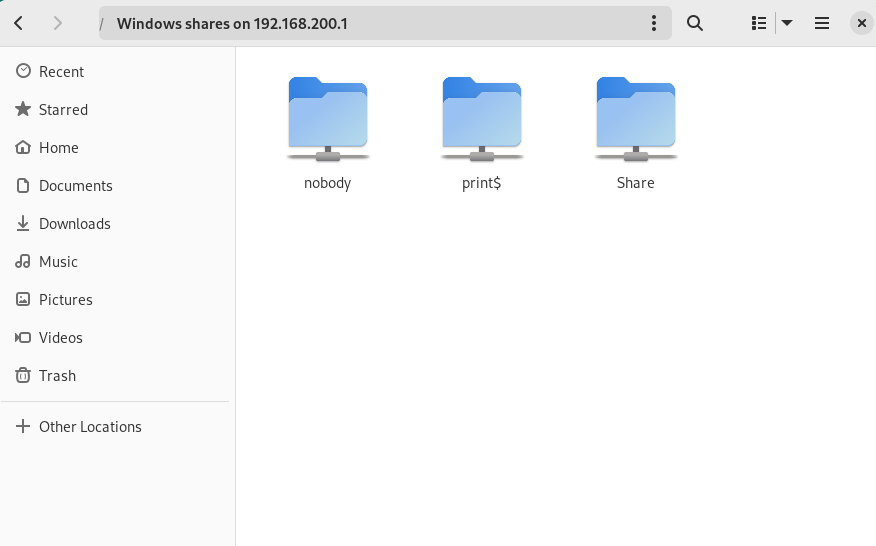
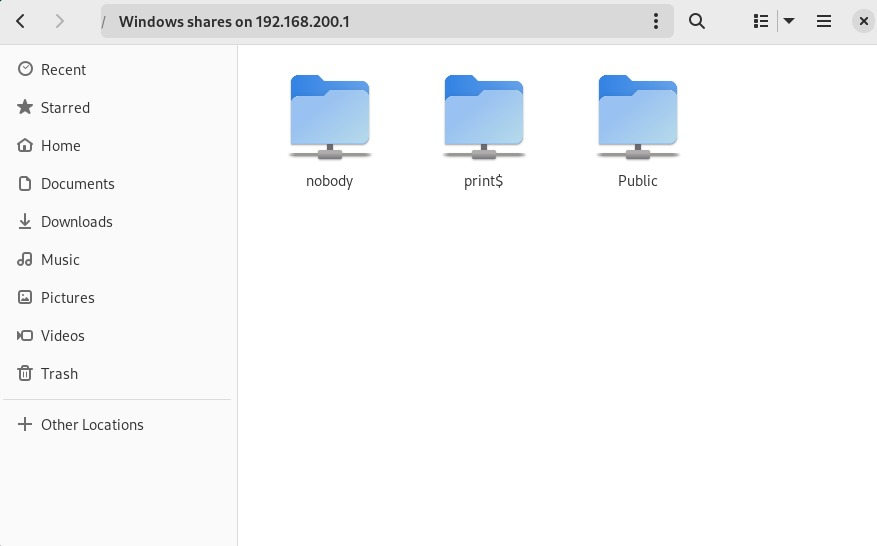
laporan selesai

diff --git a/Week-6/README.md b/Week-6/README.md
@@ -12,38 +12,189 @@
 <h3 style="text-align: center;line-height: 1.5">Politeknik Elektronika Negeri Surabaya<br>Departemen Teknik Informatika Dan Komputer<br>Program Studi D3 Teknik Informatika<br>2025/2026</h3>
   <hr>
 </div>
-<br>
+
+-----
+
+#### Daftar Isi
+1. [Konfigurasi Virtual Machine No-GUI (VM 1)](#konfigurasi-virtual-machine-no-gui-vm-1)
+2. [Konfigurasi NTP Client](#konfigurasi-ntp-client)
+3. [Konfigurasi Samba](#konfigurasi-samba) 
+4. [Konfigurasi Bind9 (DNS)](#konfigurasi-bind9-dns)
+5. [Konfigurasi Virtual Machine GUI (VM 2)](#konfigurasi-virtual-machine-gui-vm-2)
+
+Praktikum ini menggunakan dua VM Debian, satu tanpa GUI (VM1) dan satu dengan GUI (VM2). Tujuannya adalah menghubungkan kedua VM. VM1 memakai bridge network, sedangkan VM2 memakai internal network dan dikonfigurasi dengan Samba. 
+
+### Konfigurasi Virtual Machine No-GUI (VM 1)
+
+Mengatur Network pada debidora-nogui (VM 1), Ubah adapter 1 menjadi bridged network dan adapter 2 menjadi internal network. Tekan OK untuk menyimpan perubahan.
 
 <img src="images/1.png">
 <img src="images/2.png">
-<img src="images/3.png">
-<img src="images/4.png">
-<img src="images/5.png">
-<img src="images/6.png">
-<img src="images/7.png">
-<img src="images/8.png">
+
+1. Jalankan perintah ip a di VM untuk melihat alamat IP, lalu catat IP dari interface enp0s3. 
+
+    <img src="images/3.png">
+
+2. Setelah itu, buka terminal atau Command Prompt di Windows host, lalu gunakan perintah ssh student@[alamat-IP-enp0s3]. Masuk seperti biasa (seperti saat login di VM) untuk mengakses VM tanpa GUI langsung dari terminal Windows.
+
+    <img src="images/4.png">
+
+3. Setelah itu, lakukan pengaturan jaringan dan periksa isinya dengan menjalankan perintah nano -l -w /etc/network/interfaces untuk melihat konfigurasi yang ada.
+
+    <img src="images/5.png">
+
+    Terlihat bahwa terdapat dua interface jaringan yang dikonfigurasi: enp0s3 yang disetel menggunakan DHCP (otomatis mendapat IP), dan enp0s8 yang dikonfigurasi secara statis dengan alamat IP 192.168.200.1, subnet mask 255.255.255.0, dan DNS 1.1.1.1. Konfigurasi ini memungkinkan sistem untuk menggunakan dua koneksi jaringan sekaligus, masing-masing dengan pengaturan berbeda.
+
+4. Agar sistem bisa berfungsi sebagai router atau gateway, fitur IP forwarding perlu diaktifkan. Caranya adalah dengan mengedit file konfigurasi dan mengaktifkan opsi `net.ipv4.ip_forward`.
+
+    <img src="images/6.png">
+
+
+    lalu lakukan validasi dengan perintah `systemctl -p`
+
+    <img src="images/7.png">
+
+5. Unduh package iptables dan iptables-persistent dengan menggunakan perintah sudo apt-get install iptables iptables-persistent.
+
+    <img src="images/8.png">
+
+6. Buka file /etc/iptables/rules.v4 dengan perintah sudo nano -l -w /etc/iptables/rules.v4 lalu tambahkan baris kode berikut:
+
+  ```bash
+*nat
+ -A POSTROUTING -o enp0s3 -j MASQUERADE
+ COMMIT
+
+ *filter
+ -A INPUT -i lo -j ACCEPT
+ # allow ssh, so that we do not lock ourselves
+ -A INPUT -i enp0s3 -p tcp -m tcp --dport 22 -j ACCEPT
+ # allow incoming traffic to the outgoing connections,
+ # et al for clients from the private network
+ -A INPUT -m state --state RELATED,ESTABLISHED -j ACCEPT
+ # prohibit everything else incoming
+ -A INPUT -i enp0s3 -j DROP
+ COMMIT
+```  
 <img src="images/9.png">
-<img src="images/10.png">
-<img src="images/11.png">
-<img src="images/12.png">
-<img src="images/13.png">
-<img src="images/14.png">
-<img src="images/15.png">
-<img src="images/16.png">
-<img src="images/17.png">
-<img src="images/18.png">
-<img src="images/19.png">
-<img src="images/20.png">
-<img src="images/21.png">
-<img src="images/22.png">
-<img src="images/23.png">
+
+7. Jalankan perintah `iptables-restore < /etc/iptables/rules.v4` untuk mengembalikan aturan-aturan iptables dari file konfigurasi yang telah disimpan sebelumnya.
+
+    <img src="images/10.png">
+
+
+### Konfigurasi NTP Client
+
+1. Instal NTP Client menggunakan perintah `apt -y install ntpsec`
+
+    <img src="images/13.png">
+
+2. Setelah proses instalasi selesai, buka file `/etc/ntpsec/ntp.conf` dengan perintah `sudo nano /etc/ntpsec/ntp.conf`, lalu beri tanda komentar (#) pada keempat baris pool yang ada dan tambahkan server NTP dari Indonesia yang bisa diperoleh melalui situs [https://www.ntppool.org/en/zone/id](https://www.ntppool.org/en/zone/id).
+
+    <img src="images/14.png">
+
+3. Setelah konfigurasi, lakukan restart NTP Client untuk menggunakan konfigurasi yang baru dengan perintah `systemctl restart ntpsec`
+
+    <img src="images/15.png">
+
+4. ntuk melihat jika sudah tersambung dengan server, gunakan perintah ntpq -p.
+
+    <img src="images/17.png">
+
+5.  Periksa waktu NTP Client dengan menggunakan perintah `systemctl status ntpsec`
+
+    <img src="images/16.png">
+
+### Konfigurasi Samba
+
+1. unduh package samba dengan menggunakan perintah `apt -y install samba`
+
+    <img src="images/18.png">
+
+2. Membuat direktori dengan menggunaakn perintah `mkdir /home/share` dan Merubah akses agar semua dapat write, read, dan excute dengan perintah `chmod 777 /home/public`
+
+    <img src="images/19.png">
+
+3. Konfigurasi file samba menggunakan perintah `nano /etc/samba/smb.conf`
+
+    Menambahkan unix charset = UTF-8 untuk kompatibilitas dengan sistem yang mendukung pengkodean UTF-8 dan Menambahkan interface sesuai dengan alamat IP yang akan digunakan.
+
+    <img src="images/20.png">
+
+    Menambahkan konfigurasi folder public.
+
+    <img src="images/21.png">
+
+4. Melakukan restart dengan perintah `systemctl restart smbd` dan mengcek status samba dengan `systemctl status smb`
+
+    <img src="images/22.png">
+
+5. Lakukan pengecekan akses samba dalam VM 1 yang menggunakan IP Statik [smb://192.168.200.1] dengan menggunakan VM 2.
+
+    <img src="images/33.png">
+
+###  Konfigurasi Bind9 (DNS)
+
+1. Instalasi BIND menggunakan perintah `apt -y install bind9 bind9utils`
+
+    <img src="images/23.png">
+
+2. Konfigurasi BIND untuk network internal dalam named.conf menggunakan perintah `nano /etc/bind/named.conf` untuk menambahkan include "/etc/bind/named.conf.internal-zones";
+
 <img src="images/24.png">
+
+3. Konfigurasi BIND untuk network internal dalam named.conf.options menggunakan perintah `nano /etc/bind/named.conf.options` untuk menambahkan:
+
+```bash
+        acl internal-network {
+                192.168.200.0/24;
+        };
+...
+...
+        allow-query { localhost; internal-network; };
+        allow-transfer { localhost; };
+        listen-on port 53 { any; };
+        recursion yes;
+```
+
 <img src="images/25.png">
-<img src="images/26.png">
-<img src="images/27.png">
-<img src="images/28.png">
-<img src="images/29.png">
-<img src="images/30.png">
-<img src="images/31.png">
-<img src="images/32.png">
-<img src="images/33.png">
+
+4. Konfigurasi BIND untuk network internal dalam named.conf.internal-zones menggunakan perintah `nano /etc/bind//etc/bind/named.conf.internal-zones`
+
+    <img src="images/26.png">
+
+5. Konfigurasi BIND untuk network internal dalam /default/named menggunakan perintah `nano /etc/default/named` untuk menambahkan:
+
+    ```bash
+    # add
+    OPTIONS="-u bind -4"
+    ```
+    <img src="images/27.png">
+
+6. embuat file zona yang digunakan server untuk menyelesaikan alamat IP dari nama domain, menggunakan perintah `nano /etc/bind/kelompok5.home.lan`
+
+    <img src="images/28.png">
+
+7. Buat file zona yang memungkinkan server mengubah nama domain menjadi alamat IP menggunakan perintah `nano /etc/bind/200.168.192.db`
+
+    <img src="images/29.png">
+
+8. Terakhir lakukan Restart BIND untuk menyimpan perubahan menggunakan `systemctl restart named`
+
+### Konfigurasi Virtual Machine GUI (VM 2)
+
+1. Konfigurasi jaringan Wired menjadi IP statik seperti yang tertera pada gambar. Lalu klik apply.
+
+    <img src="images/11.png">
+
+2. Cek koneksi dengan melakukan ping ke gateway
+
+    <img src="images/12.png">
+
+3. Jika VM 2 sudah berhasil terkoneksi dengan VM 1 melalui jaringan internal, lakukan pengecekan layanan DNS di VM 2 dengan menjalankan perintah `dig ns.kelompok5.home` dan `dig -x 192.168.200.1`. DNS dianggap berhasil jika hasilnya menampilkan flag **ANSWER: 1** atau lebih serta status **NOERROR**.
+
+    <img src="images/31.png">
+
+    <img src="images/32.png">
+
+
